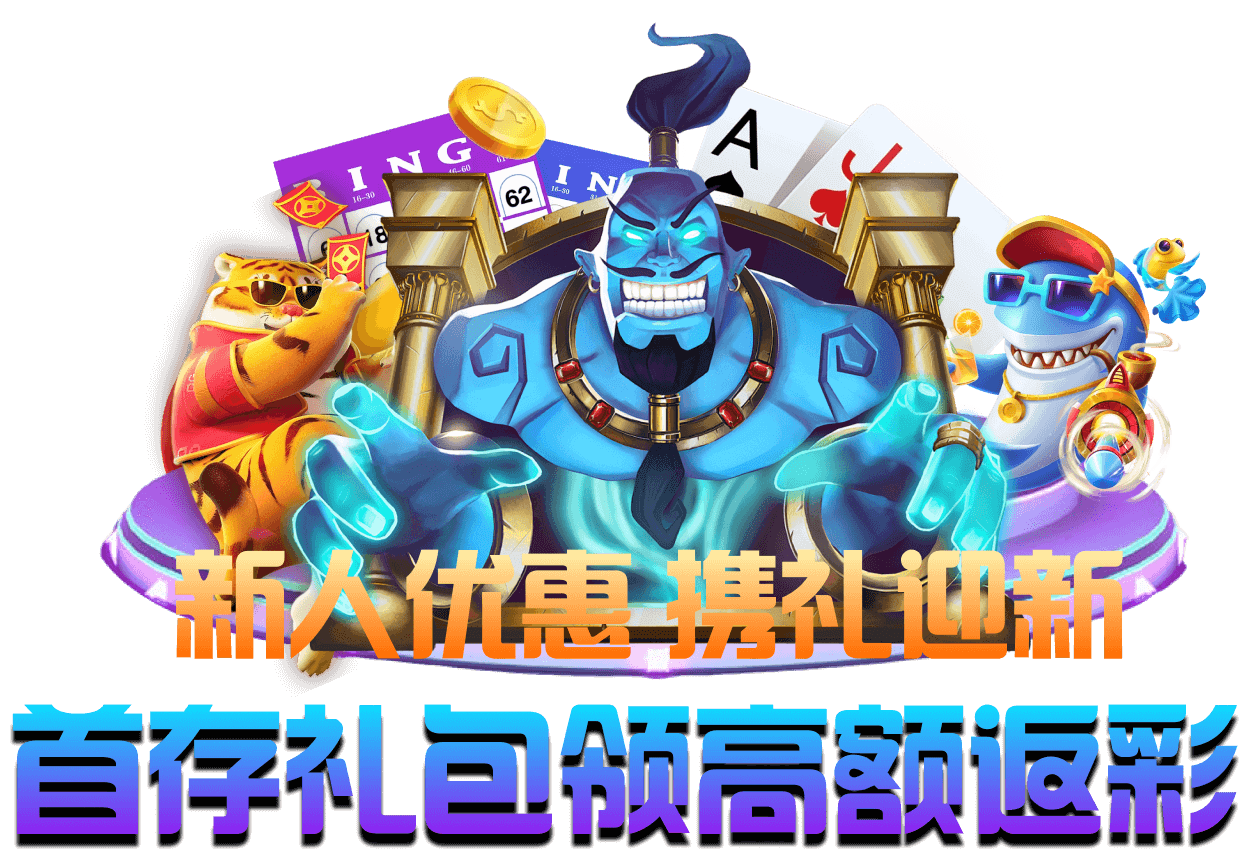
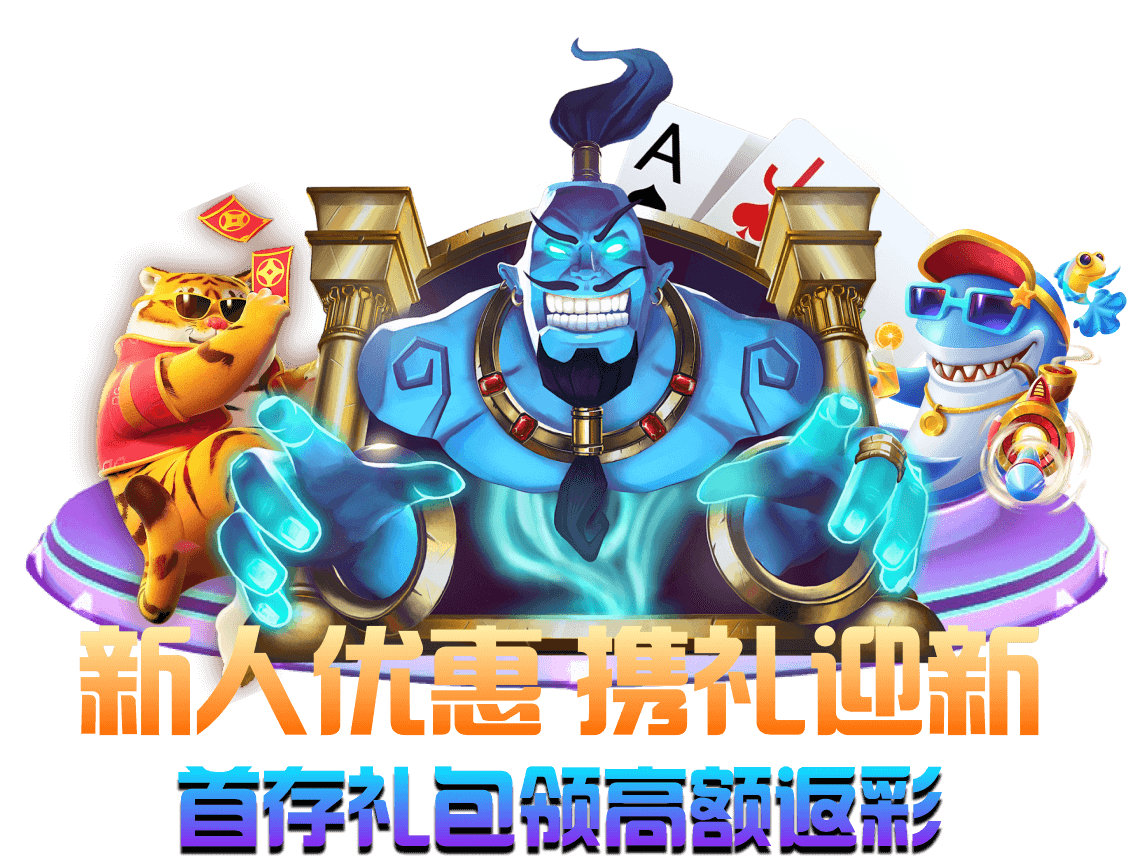
fix: [lh h5] Amend image

diff --git a/lh-static-h5/src/components/hotpromo/ftd/FtdPromo.vue b/lh-static-h5/src/components/hotpromo/ftd/FtdPromo.vue
@@ -93,16 +93,16 @@ const switchTab = (index) => {
 
         .genie-ball-wrapper {
             position: absolute;
-            top: calc(0% + 150px);
-            left: 52%;
+            top: calc(0% + 180px);
+            left: 51%;
             transform: translate(-50%, -50%);
             aspect-ratio: 321 / 319;
-            width: 100px;
+            width: 120px;
         }
 
         .genie-ball {
             aspect-ratio: 321 / 319;
-            width: 100px;
+            width: 120px;
 	        animation: pulse 2s infinite;
         }
 
